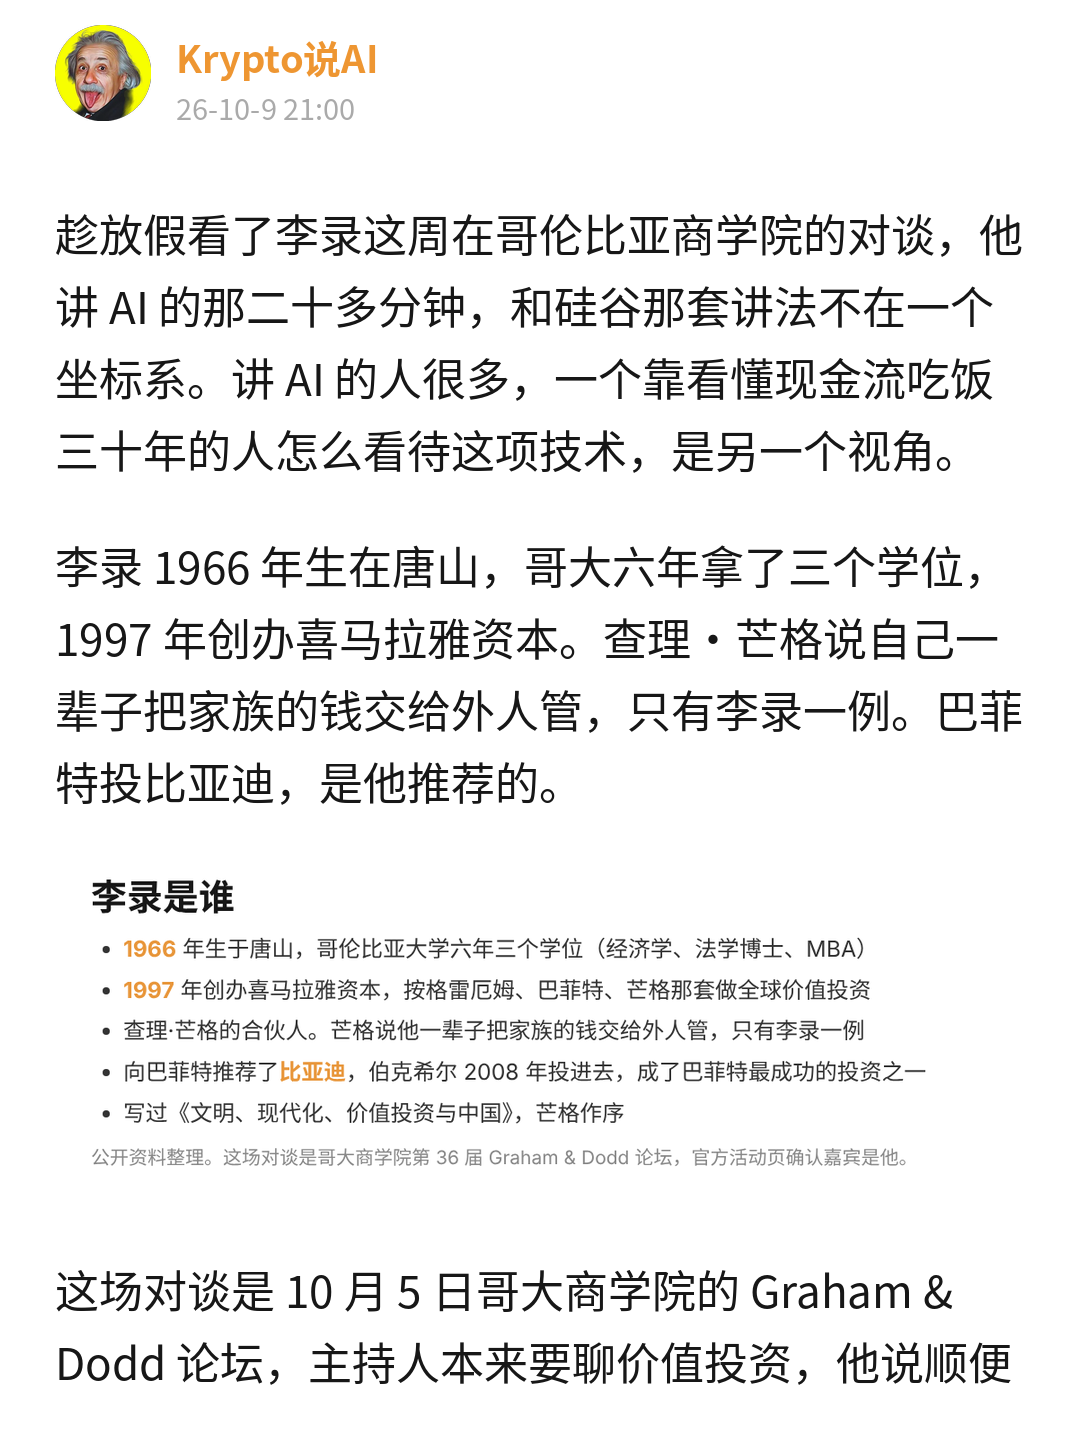
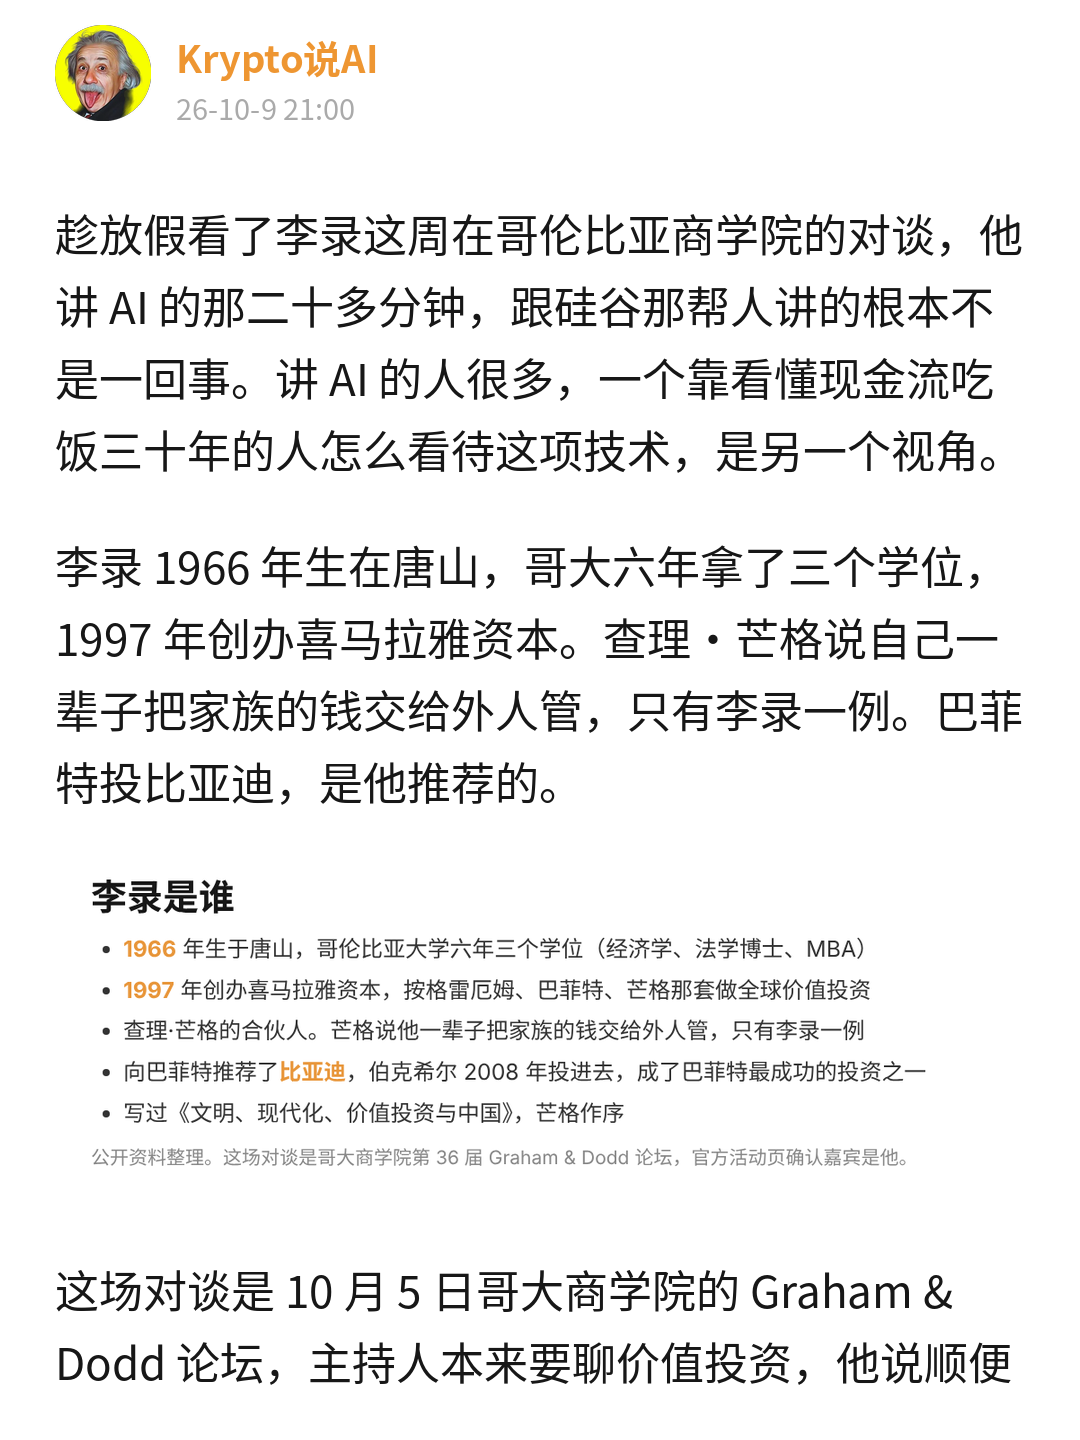
李录稿：开头和正文去掉「不在一个坐标系」；第七条进 CLAUDE.md / writing_guide / meme_check（用户 10-07）
Claude-Session: https://claude.ai/code/session_015PCFAaTRLY2GD1Se7DV5ug

Changed region(s): [[0.0306, 0.1875, 0.9167, 0.3438]]

diff --git a/skills/meme-xhs/scripts/meme_check.py b/skills/meme-xhs/scripts/meme_check.py
@@ -428,6 +428,7 @@ def check_ai_tone(meta, paras, draft_dir):
                          (r"^先说.{0,4}是谁", "不写「先说他是谁。」，直接写履历"),
                          (r"讲了很长一段|下面是他讲|下面是她讲|下面是.{0,6}的部分", "过场句删掉"),
                          (r"整理稿|两份稿子|稿子对不上|素材里", "默认读者没见过我们用的素材，这类话会暴露"),
+                         (r"不在一个坐标系|同一个坐标系|一个坐标系", "英文直译味（用户 10-07）：改成「根本不是一回事」这类口语"),
                          (r"这条我站|这点我同意|这点我也认同|这条我认|这条我暂时|我暂时站|我站他|这个分法我同意", "正常的高知不这么表达，把自己的事直接说出来")):
             m_ = re.search(pat, p)
             if m_:

diff --git a/CLAUDE.md b/CLAUDE.md
@@ -11,7 +11,7 @@
 - 目标读者：对 AI 和自我成长刚感兴趣的人；焦虑是怕被 AI 淘汰、成长 FOMO。实际观众两群：AI 技术类男性 25–34 岁、个人成长类女性 35–44 岁，每篇都要同时碰到「AI」和「我自己怎么办」
 - 人设：Tech 行业产品经理（CMU 毕业），用 Claude / Codex / Grok 干活 2 年，工作里 AI 占比 100% 以上；每天读海外一手内容。**不是**前员工、不是投资人、没有采访、没有团队。可以说「我是 PM」「我用了两年」，不说具体公司。生活：美国 8 年、上海 2 年，现在长居香港；爱好高尔夫、F1（这两样的比喻暂时不用，用户 10-04；也不写「XX 我早就看明白了」这类自称内行的话）
 - 对标（10-06 起）：访谈 / 人物稿学华一说AI（`对标/华一说AI/`，转述荐读，「我」退后）；观点稿学小盖
-- 语气：AI 专家为主，稍微毒舌，带点搞笑。判断直接下，事实用自己的话讲；不写「我很认」「我也说一句」「局限我也说一句」这类给自己的发言加前缀的话（用户 10-03）；毒舌对着现象和自己，不对着具体的人；笑点靠事实错位，不加「哈哈」和感叹号。说话口吻对标小盖（`对标/小盖/口吻拆解.md`，5 篇）：像跟朋友聊这几天干了什么，不像写论证；10-03 起还学他的讲法：第一句是判断、编号笔记体、先用已知锚未知、一组例子用到底、换一群读者再讲一遍、回指已发稿、对比站队标题（meme-xhs SKILL.md 里有单子）；图上字体保持黑体，不用宋体（用户 10-03）。**用户 10-07 晚六条（看李录稿后）**：① 开头不写「推荐看看 / 非常推荐」，可以写「趁放假看了 X」；② 不写「怎么量这项技术 / 一个量法 / 一把尺子」，写「怎么看待 AI / 另一个视角」；③ 不写「先说他是谁。」，直接写履历；④ 不写「然后讲了很长一段 / 下面是他讲 AI 的部分」这类过场；⑤ 不写「整理稿的注释 / 两份稿子 / 素材里」，默认读者没见过我们用的素材，这些话会暴露；⑥ 不写「这条我站他 / 这点我同意 / 这点我也认同」，正常的高知不这么表达，把自己的事直接说出来就行
+- 语气：AI 专家为主，稍微毒舌，带点搞笑。判断直接下，事实用自己的话讲；不写「我很认」「我也说一句」「局限我也说一句」这类给自己的发言加前缀的话（用户 10-03）；毒舌对着现象和自己，不对着具体的人；笑点靠事实错位，不加「哈哈」和感叹号。说话口吻对标小盖（`对标/小盖/口吻拆解.md`，5 篇）：像跟朋友聊这几天干了什么，不像写论证；10-03 起还学他的讲法：第一句是判断、编号笔记体、先用已知锚未知、一组例子用到底、换一群读者再讲一遍、回指已发稿、对比站队标题（meme-xhs SKILL.md 里有单子）；图上字体保持黑体，不用宋体（用户 10-03）。**用户 10-07 晚六条（看李录稿后）**：① 开头不写「推荐看看 / 非常推荐」，可以写「趁放假看了 X」；② 不写「怎么量这项技术 / 一个量法 / 一把尺子」，写「怎么看待 AI / 另一个视角」；③ 不写「先说他是谁。」，直接写履历；④ 不写「然后讲了很长一段 / 下面是他讲 AI 的部分」这类过场；⑤ 不写「整理稿的注释 / 两份稿子 / 素材里」，默认读者没见过我们用的素材，这些话会暴露；⑥ 不写「这条我站他 / 这点我同意 / 这点我也认同」，正常的高知不这么表达，把自己的事直接说出来就行；⑦ 不写「不在一个坐标系」这类英文直译味的比喻（改成「跟硅谷那帮人讲的根本不是一回事」）。**用户 10-07 定的目标**：读者能认出 AI 产物，稿子要让他们读完觉得是一个对 AI 有顶尖理解的真人写的，每句话都按这个标准念一遍
 - 信息源：英文一手、内测、付费社群、自己工作里的体感都有。写「我在内测里看到」前先问用户能不能说
 - 更新：每天至少 1 篇，21:00 发（账号周观看 21 到 24 点是凌晨和午后的 6 倍，10-07 复盘）；热点稿例外，当天发；知识卡和长文精读为主，漫画、视频保留；起号日记停（用户 10-07，Karpathy 翻车那篇也不做）
 - **评论权限不恢复**（用户 10-07）：账号发不了评论，置顶评论这条路关了。领取物和关注理由都放图下 `正文.txt`，顺序：一行关注理由 → 要点 → 领取物 → 标签；评论区的差评不回

diff --git a/skills/meme-xhs/references/writing_guide.md b/skills/meme-xhs/references/writing_guide.md
@@ -264,7 +264,7 @@
 8. **「我」最多 6 次**：开头推荐、挑三点、结尾一句认同或保留（「这点我也认同」）。不预言行业，不回指，不换读者。
 9. **结尾停在原文最后一个有分寸的观点上**，加一句平常的认同就停，不收金句。
 
-**用户 10-07 晚看李录稿后定的六条（所有文体都适用）**：开头不写「推荐看看 / 非常推荐」，可以写「趁放假看了 X」；不写「怎么量这项技术 / 一个量法 / 一把尺子」，写「怎么看待 / 另一个视角」；不写「先说他是谁。」，直接写履历；不写「然后讲了很长一段 / 下面是他讲 X 的部分」这类过场；不写「整理稿的注释 / 两份稿子 / 素材里」，默认读者没见过我们用的素材；不写「这条我站他 / 这点我同意 / 这点我也认同」，把自己的事直接说出来。meme_check 会 ✗。
+**用户 10-07 晚看李录稿后定的六条（所有文体都适用）**：开头不写「推荐看看 / 非常推荐」，可以写「趁放假看了 X」；不写「怎么量这项技术 / 一个量法 / 一把尺子」，写「怎么看待 / 另一个视角」；不写「先说他是谁。」，直接写履历；不写「然后讲了很长一段 / 下面是他讲 X 的部分」这类过场；不写「整理稿的注释 / 两份稿子 / 素材里」，默认读者没见过我们用的素材；不写「这条我站他 / 这点我同意 / 这点我也认同」，把自己的事直接说出来；不写「不在一个坐标系」这类英文直译味的比喻，改成「根本不是一回事」。读者能认出 AI 产物，目标是让他们读完觉得这是一个对 AI 有顶尖理解的真人写的。meme_check 会 ✗。
 
 meme_check 在 retell 模式下：不查转述词密度、stance、开头的「我」、时间锚和前 5 段反差；改查字数 1300 到 2200、「我」不超过 6 次、假设场景 0 个。
 

diff --git a/发布/2026-10-08_lilu-ai-tool-not-species/meme版/编辑用/draft.md b/发布/2026-10-08_lilu-ai-tool-not-species/meme版/编辑用/draft.md
@@ -10,7 +10,7 @@ time: 26-10-9 21:00
 account: Krypto说AI
 ---
 
-趁放假看了李录这周在哥伦比亚商学院的对谈，他讲 AI 的那二十多分钟，和硅谷那套讲法不在一个坐标系。讲 AI 的人很多，一个靠看懂现金流吃饭三十年的人怎么看待这项技术，是另一个视角。
+趁放假看了李录这周在哥伦比亚商学院的对谈，他讲 AI 的那二十多分钟，跟硅谷那帮人讲的根本不是一回事。讲 AI 的人很多，一个靠看懂现金流吃饭三十年的人怎么看待这项技术，是另一个视角。
 
 李录 1966 年生在唐山，哥大六年拿了三个学位，1997 年创办喜马拉雅资本。查理·芒格说自己一辈子把家族的钱交给外人管，只有李录一例。巴菲特投比亚迪，是他推荐的。
 
